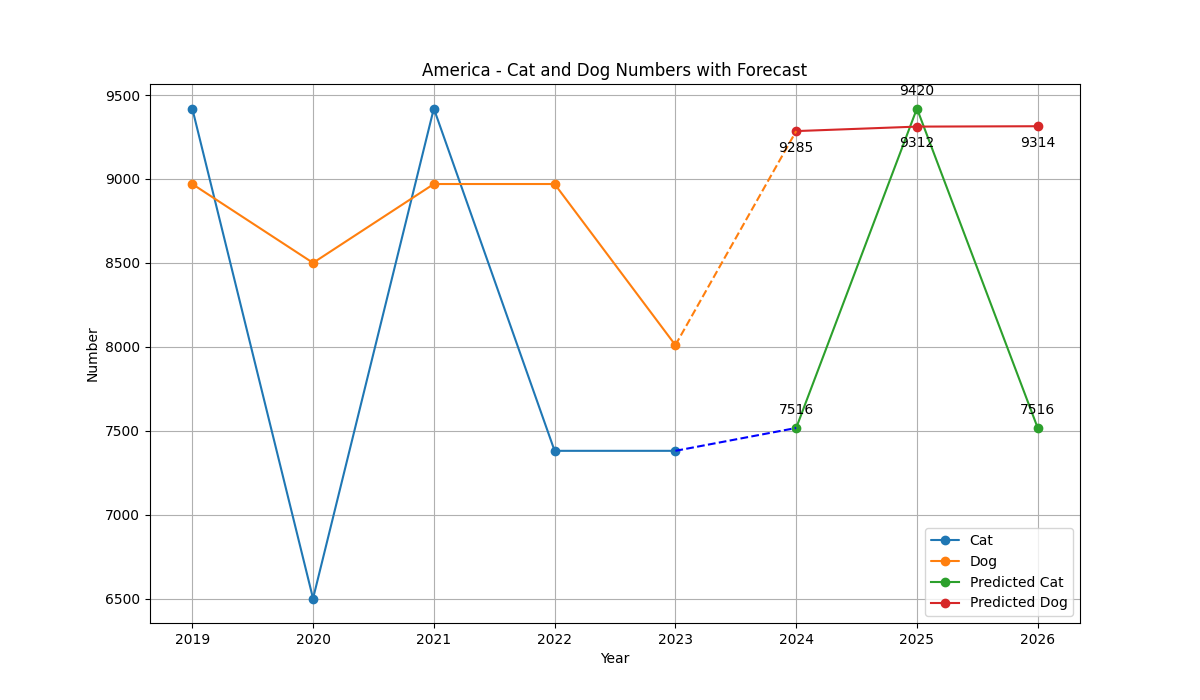
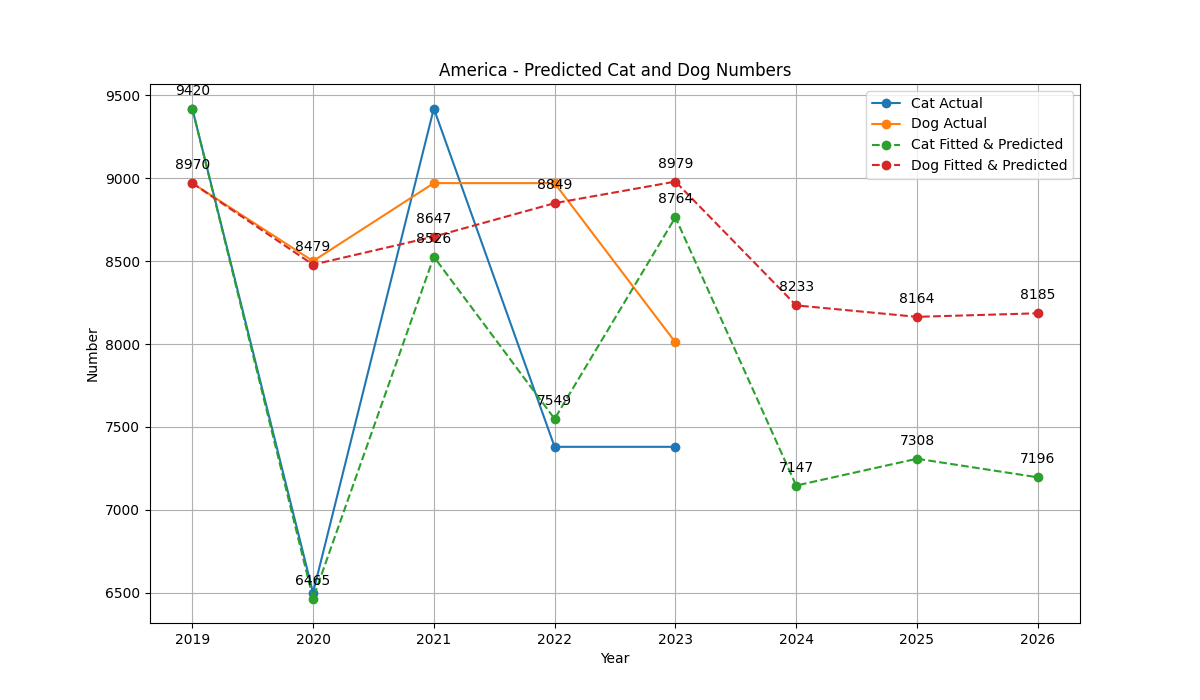
upd

diff --git a/q_2/3.py b/q_2/3.py
@@ -17,6 +17,11 @@ def read_data_file(filename):
     years = [int(year) for year in lines[0].split()[1:]]
     cat_data = [int(num) for num in lines[1].split()[1:]]
     dog_data = [int(num) for num in lines[2].split()[1:]]
+
+    # 反转数据顺序，使年份从小到大排序
+    years.reverse()
+    cat_data.reverse()
+    dog_data.reverse()
     return years, cat_data, dog_data
 
 
@@ -32,61 +37,60 @@ for country, file_path in countries.items():
     years, cat_data, dog_data = read_data_file(file_path)
 
     # 创建ARIMA模型并预测
-    future_years = list(range(years[0] + 1, years[0] + 4))  # 预测未来3年
+    future_years = list(range(years[-1] + 1, years[-1] + 4))  # 使用最后一年作为基准
     all_years = years + future_years
 
     # 对猫的数据进行预测
     cat_model = ARIMA(cat_data, order=(1, 1, 1))
     cat_fit = cat_model.fit()
-    cat_forecast = cat_fit.forecast(steps=3)
-    cat_all_data = np.concatenate([cat_data, cat_forecast])
+    # 修改预测起始点为第一个观测值
+    cat_pred = cat_fit.get_prediction(start=1, end=len(all_years)-1)
+    cat_predicted = np.concatenate(
+        ([cat_data[0]], cat_pred.predicted_mean[:len(years)-1]))
+    cat_forecast = cat_pred.predicted_mean[len(years)-1:]
+    cat_all_data = np.concatenate((cat_predicted, cat_forecast))
 
     # 对狗的数据进行预测
     dog_model = ARIMA(dog_data, order=(1, 1, 1))
     dog_fit = dog_model.fit()
-    dog_forecast = dog_fit.forecast(steps=3)
-    dog_all_data = np.concatenate([dog_data, dog_forecast])
+    # 同样修改狗的预测起始点
+    dog_pred = dog_fit.get_prediction(start=1, end=len(all_years)-1)
+    dog_predicted = np.concatenate(
+        ([dog_data[0]], dog_pred.predicted_mean[:len(years)-1]))
+    dog_forecast = dog_pred.predicted_mean[len(years)-1:]
+    dog_all_data = np.concatenate((dog_predicted, dog_forecast))
 
     # 绘制图表
     plt.figure(figsize=(12, 7))
 
-    # 绘制历史数据（实线）
-    plt.plot(years, cat_data, marker='o',
-             label='Cat', solid_capstyle='round')
-    plt.plot(years, dog_data, marker='o',
-             label='Dog', solid_capstyle='round')
+    # 绘制实际数据（实线）
+    plt.plot(all_years[:len(years)], cat_data, 'o-',
+             label='Cat Actual', solid_capstyle='round')
+    plt.plot(all_years[:len(years)], dog_data, 'o-',
+             label='Dog Actual', solid_capstyle='round')
 
-    # 绘制预测数据（虚线）并连接历史数据和预测数据
-    plt.plot(future_years, cat_forecast, 'o-', label='Predicted Cat')
-    plt.plot([years[0], future_years[0]],
-             [cat_data[0], cat_forecast[0]], 'b--')  # 连接猫的历史和预测数据
+    # 绘制拟合和预测数据（虚线）
+    plt.plot(all_years, cat_all_data, 'o--',
+             label='Cat Fitted & Predicted')
+    plt.plot(all_years, dog_all_data, 'o--',
+             label='Dog Fitted & Predicted')
 
-    plt.plot(future_years, dog_forecast, 'o-', label='Predicted Dog')
-    plt.plot([years[0], future_years[0]], [dog_data[0],
-             dog_forecast[0]], 'C1--')  # 连接狗的历史和预测数据
-
-    # 添加数值标签
-    # for i, txt in enumerate(cat_data):
-    #     plt.annotate(str(txt), (years[i], cat_data[i]), textcoords="offset points", xytext=(
-    #         0, 10), ha='center')
-    # for i, txt in enumerate(dog_data):
-    #     plt.annotate(str(txt), (years[i], dog_data[i]), textcoords="offset points", xytext=(
-    #         0, -15), ha='center')
-
-    # 添加预测值标签
-    for i, txt in enumerate(cat_forecast):
-        plt.annotate(f'{txt:.0f}', (future_years[i], txt), textcoords="offset points", xytext=(
-            0, 10), ha='center')
-    for i, txt in enumerate(dog_forecast):
-        plt.annotate(f'{txt:.0f}', (future_years[i], txt), textcoords="offset points", xytext=(
-            0, -15), ha='center')
+    # 添加所有预测值标签（包括拟合值和预测值）
+    for i, txt in enumerate(cat_all_data):
+        plt.annotate(f'{txt:.0f}', (all_years[i], txt),
+                     textcoords="offset points",
+                     xytext=(0, 10), ha='center')
+    for i, txt in enumerate(dog_all_data):
+        plt.annotate(f'{txt:.0f}', (all_years[i], txt),
+                     textcoords="offset points",
+                     xytext=(0, 10), ha='center')  # 向下偏移以避免重叠
 
     plt.xlabel('Year')
     plt.ylabel('Number')
-    plt.title(f'{country} - Cat and Dog Numbers with Forecast')
+    plt.title(f'{country} - Predicted Cat and Dog Numbers')
     plt.legend()
     plt.grid(True)
 
-    # 保存图表到pri1文件夹
+    # 保存图表
     plt.savefig(f'q_2/pri1/{country.lower()}_pets_forecast.png')
     plt.close()
